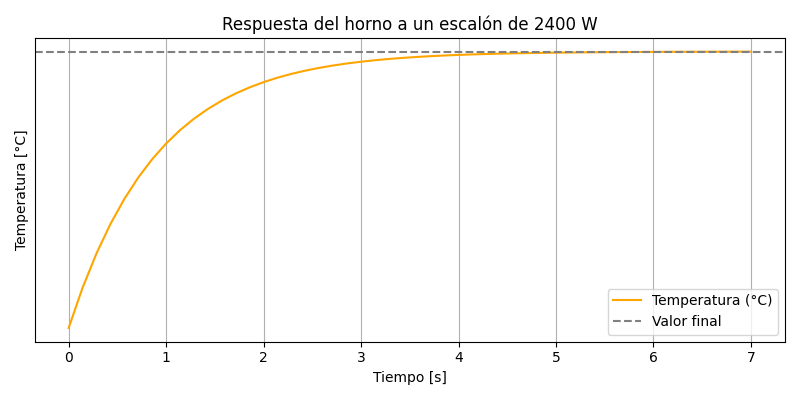
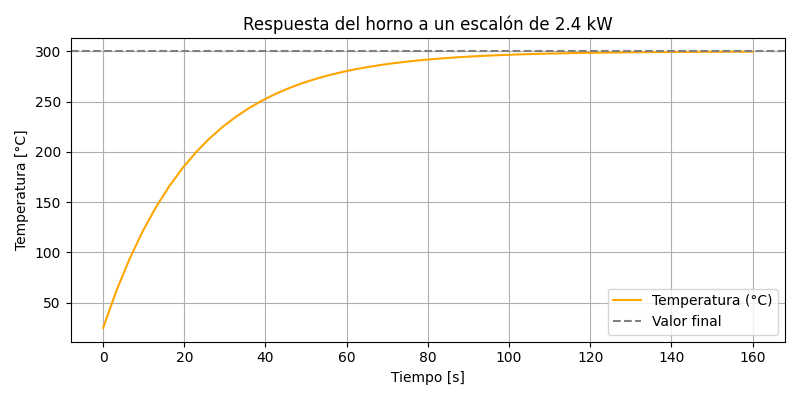
Agregado: Funcion de transferencia del sensor LM35

diff --git a/Codigo/c1.py b/Codigo/c1.py
@@ -1,42 +1,48 @@
 import numpy as np
 import matplotlib.pyplot as plt
 from scipy.signal import TransferFunction, step
+import os
+os.system('cls')
 
 Ta = 25 # Temperatura ambiente
 Tfinal = 300 # Temperatura del Horno en regimen estacionario
-potencia_aplicada = 2.4  # [kW]
+potencia_aplicada = 1000  # [W]
 Rt = (Tfinal-Ta)/potencia_aplicada
+print("Resistencia termica: ",Rt)
 
 c = 1005 # Calor especifico del aire 1005 J/kg
-V = 0.0067 # Volumen del horno 0.0067 m^3
-ro = 1.2 # densidad del aire 1.2 kg/m^3
+V = 0.067 # Volumen del horno 0.067 m^3
+ro = 1.225 # densidad del aire 1.2 kg/m^3
 m = ro * V # Masa de aire
 C = m * c
+print(C)
 
 # Parámetros del horno
-tau = C*Rt  # Constante de tiempo [s]
-K = 1/Rt       # Ganancia (1 / Rt)
-
+K = Rt
+tau = C * Rt
 
 # Función de transferencia: G(s) = K / (tau*s + 1)
-num = [K * potencia_aplicada]
+num = [K]
 den = [tau, 1]
 sistema = TransferFunction(num, den)
 
 # Tiempo de simulación
-t = np.linspace(0, 10000) # 10000 ms
+t = np.linspace(0, 160) # 10000 ms
 
-# Respuesta al escalón
+# Entrada: escalón de 2400 W (amplificador)
+# entrada = np.ones_like(t) * potencia_aplicada
+
+# Respuesta al escalón unitario (1 W)
 t_out, T_out = step(sistema, T=t)
+T_out = T_out * potencia_aplicada + Ta  # Amplifica y suma temperatura ambiente
 
 # Gráfico
 plt.figure(figsize=(8, 4))
-plt.plot(t_out/1000, T_out, label="Temperatura (°C)", color="orange")
-plt.axhline(potencia_aplicada * K, linestyle="--", color="gray", label="Valor final")
+plt.plot(t_out, T_out, label="Temperatura (°C)", color="orange")
+plt.axhline(300, linestyle="--", color="gray", label="Valor final")
 plt.title("Respuesta del horno a un escalón de 2.4 kW")
 plt.xlabel("Tiempo [s]")
 plt.ylabel("Temperatura [°C]")
-plt.yticks([])  # Oculta los valores del eje Y
 plt.grid(True)
 plt.legend()
 plt.tight_layout()

diff --git a/README.md b/README.md
@@ -24,10 +24,10 @@ Para nuestro sistema las temperaturas máximas posibles de establecer varían se
 Para este trabajo utilizaremos de referencia el siguiente modelo comercial para estudiar su comportamiento y características: **_Horno Whirlpool Empotrable Eléctrico 60 CM Inox (AKZM656IX)_** el cual posee las siguientes características:
 
 - Dimensión: Ancho $595 [mm]$ x Profundidad $564 [mm]$ x Altura $595 [mm]$
-- Potencia total: $2.4 [kW]$
+- Potencia total: $2.4 [kW]$ - Se supondra una potencia de trabajo de $1[kW]$
 - Tensión de entrada admitida: $198-242 [V]$
 - Capacidad del Horno: $67 [Litros]$
-- Temperatura mínima: $50 [ºC]$ – Temperatura máxima: $250 [ºC]$
+- Temperatura mínima: $50 [ºC]$ – Temperatura máxima: $300 [ºC]$
 
 ## 2. Definicion del Problema 
 Hablar de hornos es adentrarse en un mundo de cocción, donde la tecnología se ha hecho presente a través de diversos modelos que evolucionan con el paso del tiempo. Tener un horno eléctrico en casa es una alternativa a un horno de gas, quizá con una capacidad menor pero que funciona muy bien para cocinar los alimentos de una familia promedio.
@@ -84,10 +84,6 @@ La acción de control se ejecuta mediante un **relé** que gobierna el encendido
 |Resistencia térmica| $R_t$| $\frac{ºC}{W}$ | Oposición al flujo de calor hacia el ambiente.|
 | Constante de tiempo| $\tau$ | $s$| $\tau = R_t . C$, indica cuán rápido responde el horno. |
 
-El horno esta equipado con una resisntecia calefactora de $2400 [W]$ a $220[V]$ lo que implica una resistencia electrica de
-
-$$R_{electrica} = \frac{V^2}{P} = \frac{220^2}{2400} = 20.53 [\Omega] $$
-
 ### Perturbaciones posibles
 - Cambios en la temperatura ambiente que modifican las perdidad termicas
 - Apertura de la puerta del horno que provoca caidas de temperatura
@@ -108,7 +104,7 @@ A continuacion se presenta un diagrama en bloques de nuestro sistema. (Agregar a
 
 ![Diagrama en Bloques](/img/diagrama1.png "Diagrama en Bloques")
 
-En este caso, se grafica un bloque controlador que luego se determinará si es requerido o no de acuerdo a las especificaciones.
+En este caso, se grafica un bloque controlador que luego se determinará si es requerido o node acuerdo a las especificaciones.
 
 Como se dijo anteriormente nuestra planta se representara con un sistema de **primer orden**, para eso hay de definir dos parametros importantes
 - $R_t [ºC/W]$: Representa la resistencia termica
@@ -138,9 +134,9 @@ En funcion de los valores y dimensiones de nuestro horno tenemos que
 - $\rho = 1.2 \frac{kg}{m^3}$ (Densidad del aire)
 $$m = \rho . V = 1.2 * 0.067 = 0.0804 [Kg]$$
 
-$$C = m . c = 0.0804 * 1005 = 80.8 \frac{J}{ºC}$$
+$$C = m . c = 0.0804 * 1005 = 82.48 \frac{J}{ºC}$$
 
-### Ecuacion Diferencial del sistema
+### Ecuacion Diferencial de la Planta
 
 Partiendo de la ley basica de conservacion de la energia termica
 
@@ -154,13 +150,28 @@ Aplicando la tranformada de Laplace con condicion inicial nula
 
 $$C.s.T(s) +\frac{T(s)}{R_t}= P(s)$$
 $$T(s)(C.s +\frac{1}{R_t})= P(s)$$
-$$\frac{T(s)}{P(s)} = \frac{1}{(C.s +\frac{1}{R_t})} =\frac{\frac{1}{R_t}}{(C.R_t.s +1)} $$
+$$\frac{T(s)}{P(s)} = \frac{1}{(C.s +\frac{1}{R_t})} =\frac{R_t}{(C.R_t.s +1)} $$
 
 Si la forma estandar de una funcion de tranferencia para un sistema de primer orden es
 $$G(s) = \frac{K}{\tau .s + 1}$$
 Entonces
 - $\tau = C . R_t$ constante de tiempo termica
-- $K = 1/R_t$ ganancia estatica
+- $K = R_t$ ganancia estatica
+
+### Funcion de transferencia del sensor LM35
+
+La relacion entre la temperatura que entra al sensor y el voltaje que sale del mismo es simple:
+
+$$V_{salida}(t) = K_{LM35} * T_{entrada}(t)$$
+
+Donde:
+- $V_{salida}$: Voltaje que sale del sensor
+- $K_{LM35}$: Factor de escala del sensor
+- $T_{entrada}$: Temperatura medida por el sensor
+
+En este caso el valor de $K_{LM35} = 0.01 \frac{V}{ºC}$, entonces la funcion de tranferencia nos quedaria
+
+$$G(s) = \frac{V_{salida}(s)}{T_{entrada}(s)} = K_{LM35} = 0.01  \frac{V}{ºC}$$
 
 ---
 
